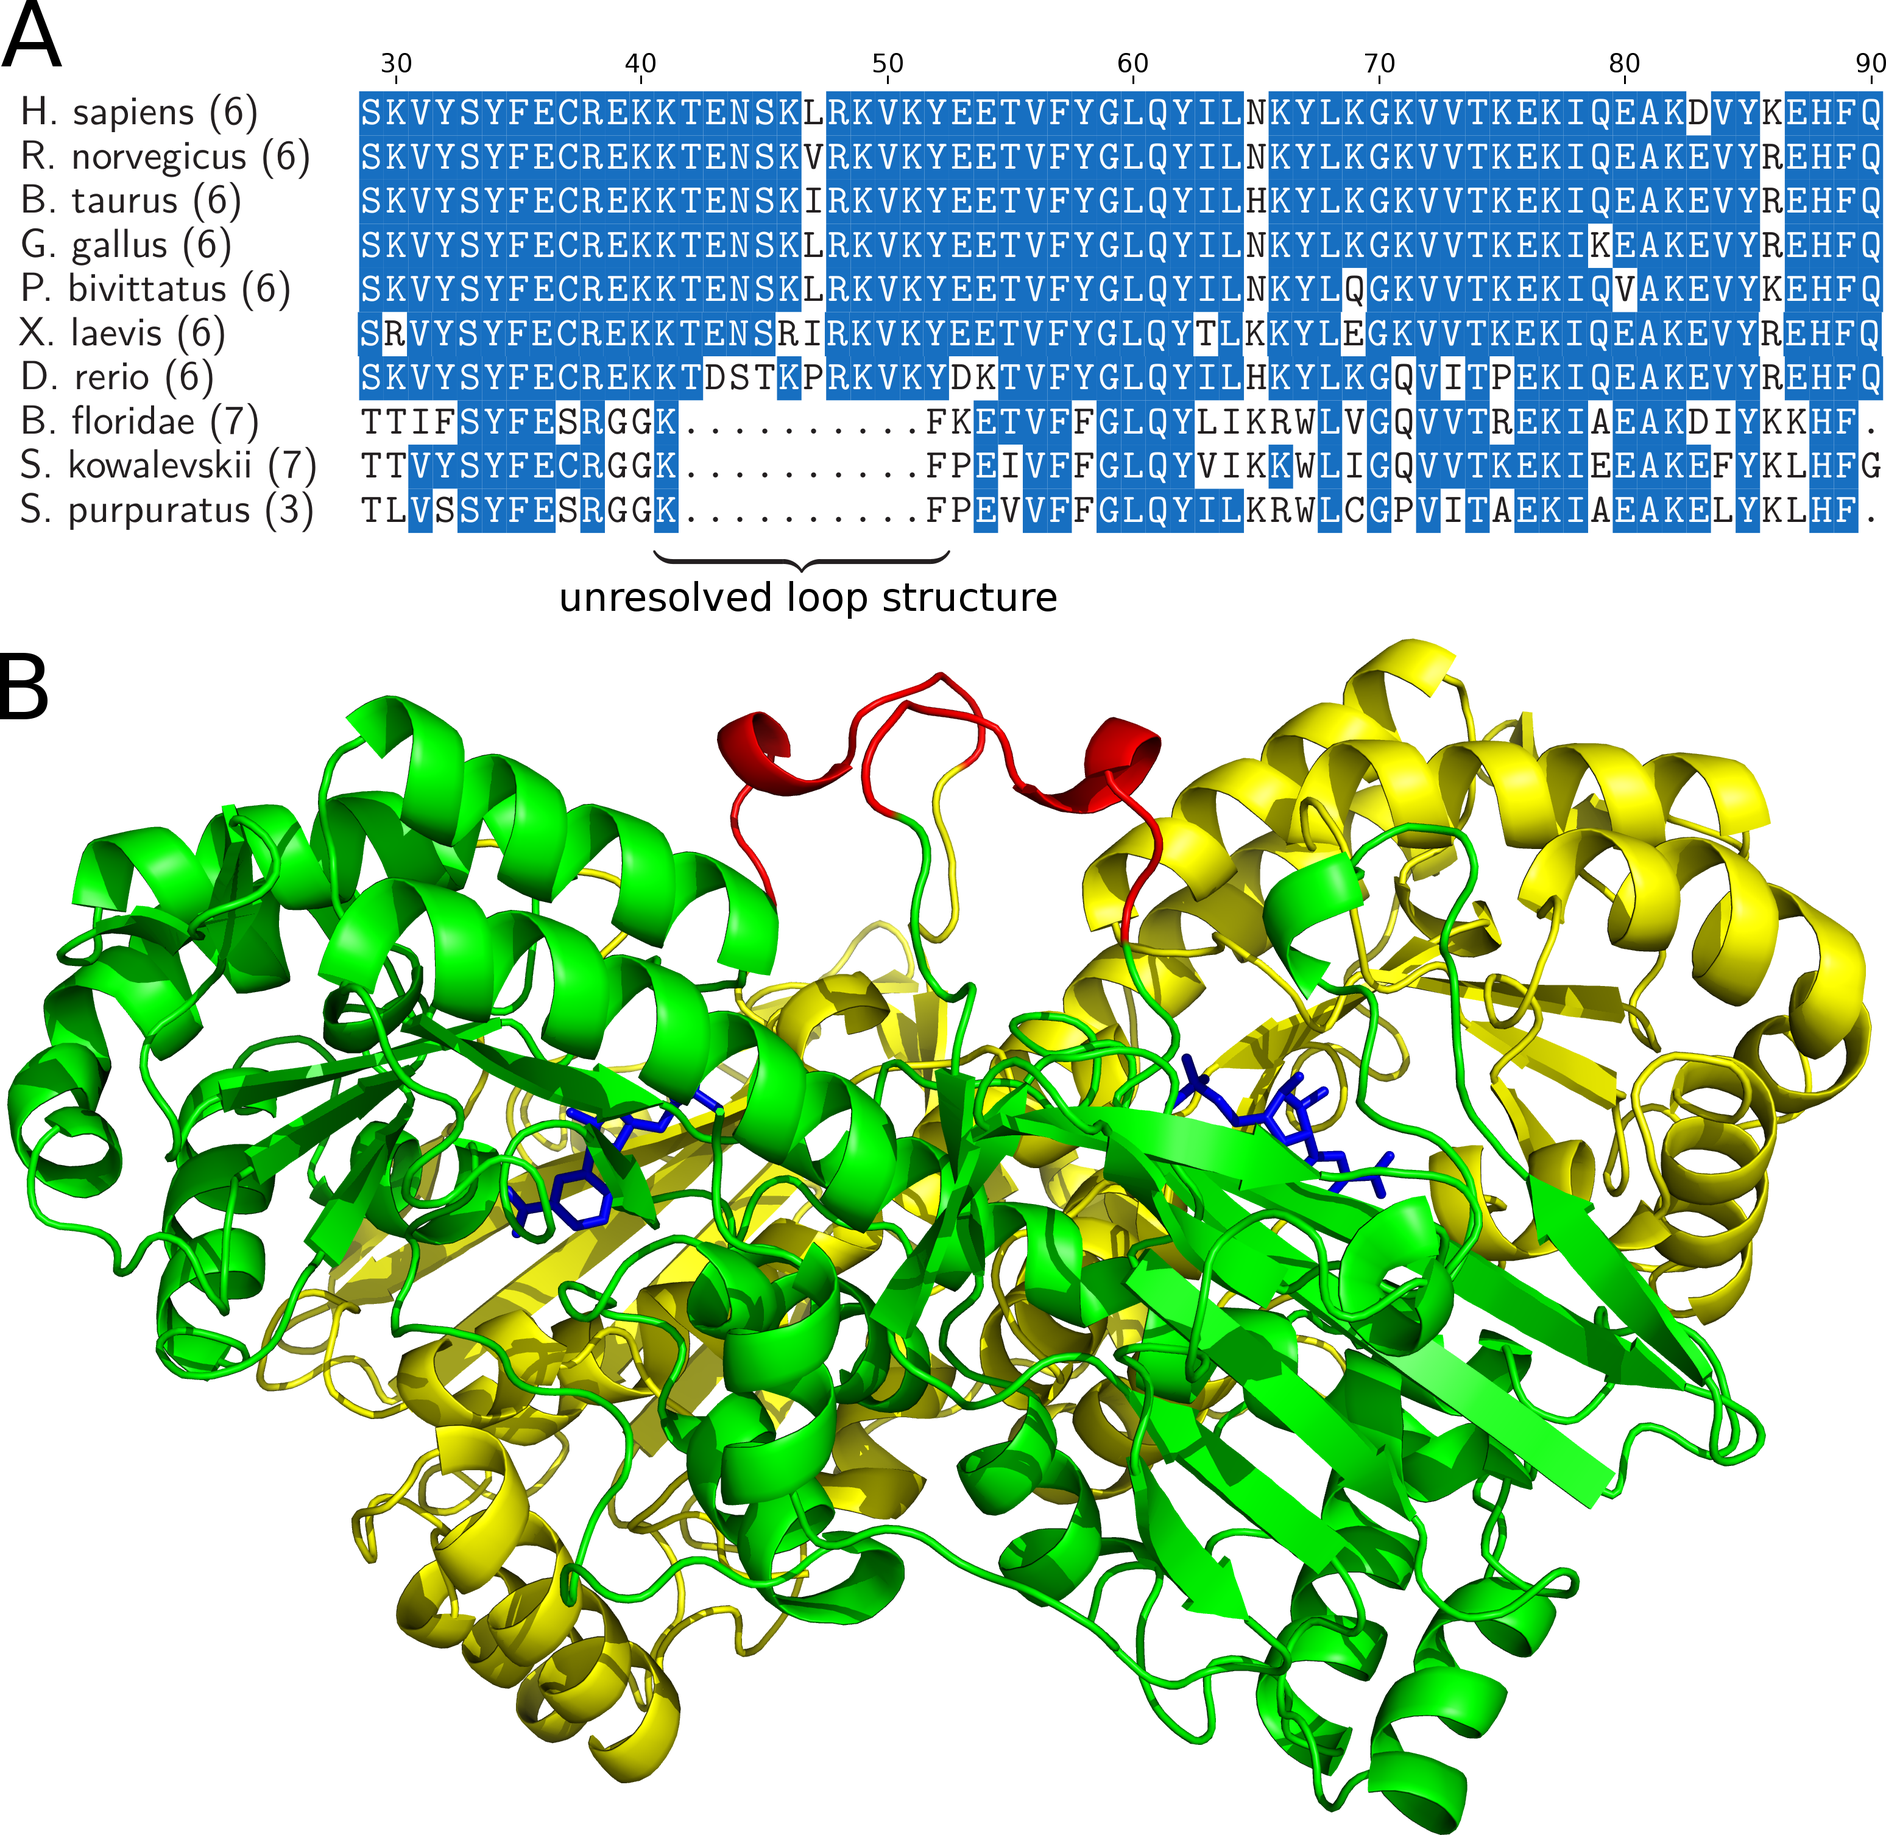
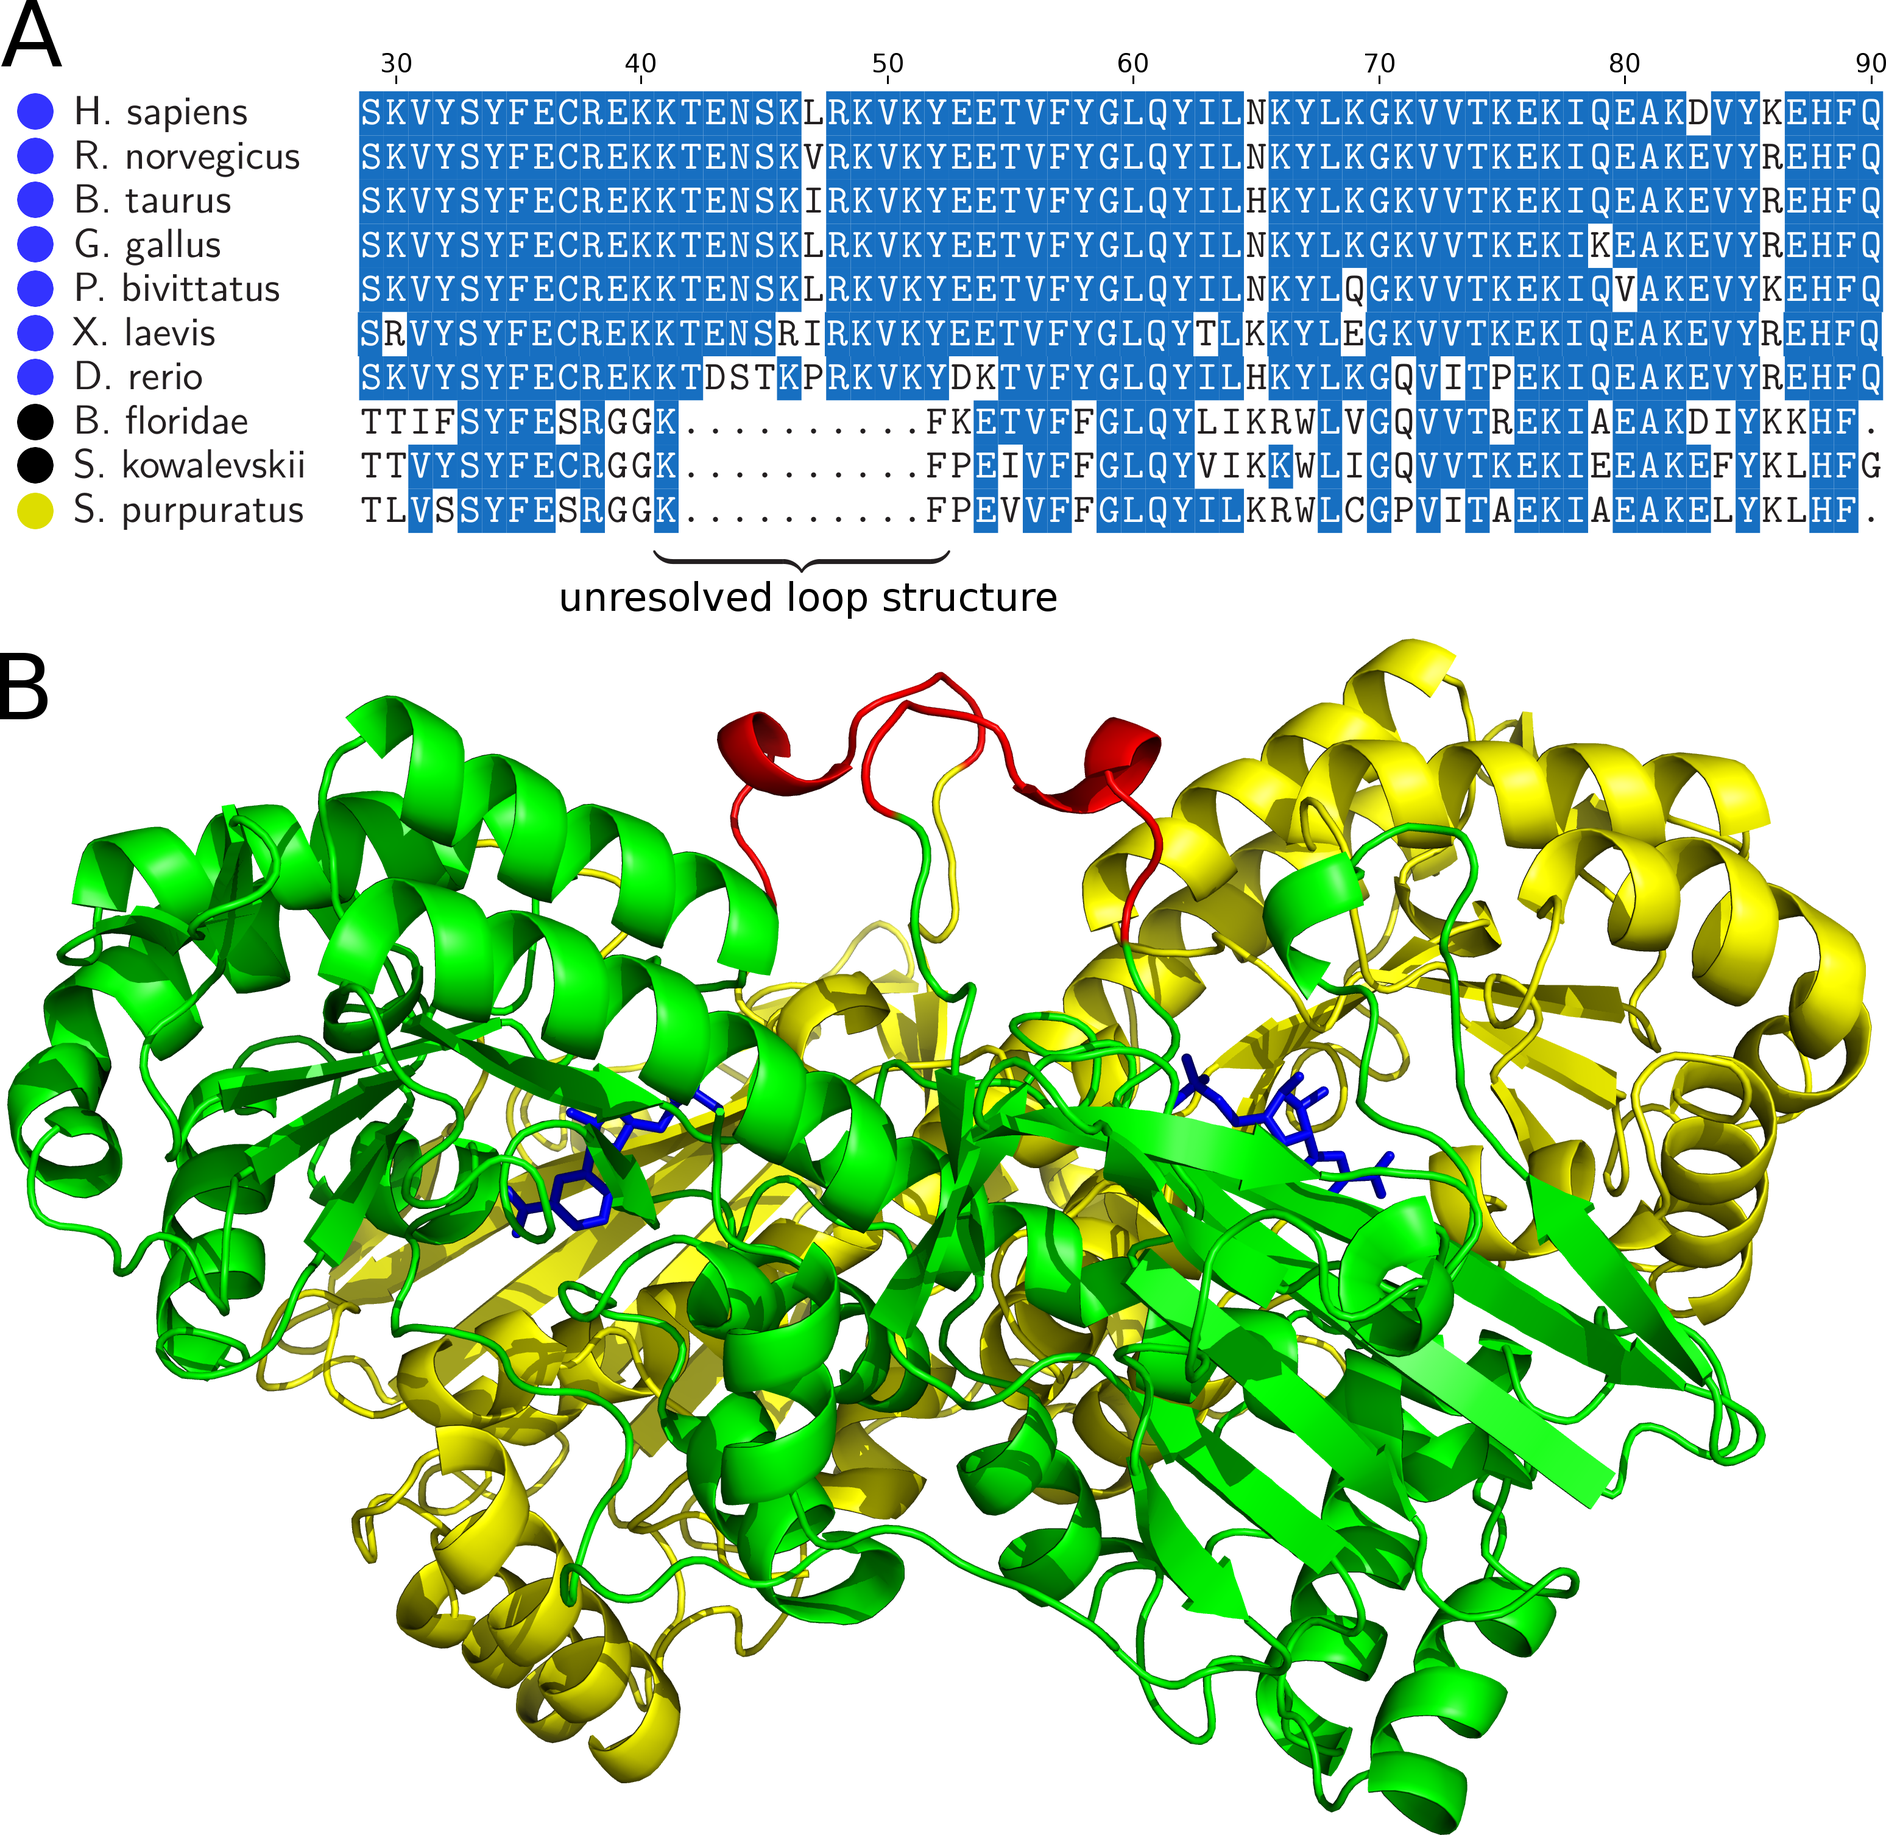
Indicated enzymes in figure by colour instead of number as before. Adjusted text accordingly.

Changed region(s): [[0.0, 0.0312, 0.186, 0.312]]

diff --git a/latex/results.tex b/latex/results.tex
@@ -19,17 +19,17 @@ Taken together, we found that the presence of NamPRT and NNMT coincides with an 
 
 So why does the diversity of NAD-dependent signalling increase? And why does NADA disappear in Deuterostomia although it is the predominant pathway in bacteria, plants and fungi? Given the complexity of the NAD metabolic network, this question is difficult to be comprehensively addressed experimentally. Thus, to answer these questions we built a dynamic model of NAD metabolism using existing kinetic data from the literature (for details see materials and methods and supplementary material).
 
-To be able to compare metabolic features of evolutionary quite different systems in our simulations, and as we have limited information about expression levels of enzymes or changes of kinetic constants during evolution, we initially used the kinetic constants found for yeast or human enzymes for all systems analysed and used equal amounts of enzymes for all reactions. Wherever possible we did not only include substrate affinities but also known product inhibition or inhibition by downstream metabolites. As we assume that cell growth is, besides NAD-consuming reactions, a major driving force for NAD biosynthesis, we analysed different growth rates (cell division rates) by simulating different dilution rates for all metabolites. 
+To be able to compare metabolic features of evolutionary quite different systems in our simulations, and as we have limited information about expression levels of enzymes or changes of kinetic constants during evolution, we initially used the kinetic constants found for yeast or human enzymes for all systems analysed and used equal amounts of enzymes for all reactions. Wherever possible we did not only include substrate affinities but also known product inhibition or inhibition by downstream metabolites. As we assume that cell growth is, besides NAD-consuming reactions, a major driving force for NAD biosynthesis, we analysed different growth rates (cell division rates) by simulating different dilution rates for all metabolites.
 
 First we addressed the question of the predominant coexitence of NamPRT and NNMT in vertebrates that coincides with an increase in the number of NAD-consuming enzyme families. We thus used our dynamic model of the NAD biosynthesis and consmption pathway to simulate the effect of the  presence or absence of NNMT.  We see that the presence of NNMT enables higher NAD consumption rates  (Figure3A) while, as exptected, reducing the steady state concentration of NAD (Figure 3B). The decline in NAD-concnetrtion can be compensated by a higher expression of NamPRT (not shown) further increasing NAD consumption flux.
 
 These findings can be explained when looking in more detail into the kinetic parameters of NamPRT and NAD-consuming enzymes such as Sirt1p.  The increase of NAD consumption flux is caused by the fact that most NAD-consuming enzymes are inhibited by their product Nam, explaing why the presence of NNMT enables higher NAD consumption fluxes. At the same time, the high substrate affinity of NamPRT maintains a sufficiently high NAD-concetration.
 
-As kinetic parameters of NamPRT are only available for the human enzyme \cite{Burgos2008} , we went on to theoretically analysed the potential effect of the NamPRT affinity (Km) on NAD steady state concentration and NAD consumption flux, leaving all other kinetic parameters constant. In the absence of NNMT (Figure 3C-D) a change in Km has very little effect on steady state NAD concentration and NAD consumption flux.  In the presence of NNMT, however, NAD consumption flux and NAD concentration increases with decreasing Km values (Figure 5E-F).  
+As kinetic parameters of NamPRT are only available for the human enzyme \cite{Burgos2008} , we went on to theoretically analysed the potential effect of the NamPRT affinity (Km) on NAD steady state concentration and NAD consumption flux, leaving all other kinetic parameters constant. In the absence of NNMT (Figure 3C-D) a change in Km has very little effect on steady state NAD concentration and NAD consumption flux.  In the presence of NNMT, however, NAD consumption flux and NAD concentration increases with decreasing Km values (Figure 5E-F).
 
-It is intersting to note that, without NNMT, NAD concentration and consumption flux are both considerably affected by cell division rates, at least if the enzyme expression is kept constant. Even though, this is of course an artificial scenario, as one would assume organisms to regulate enzyme expression to achieve similar levels of metabolite concentrations instead. However, there seems to be an apparent trade off between maintainable NAD concentration and consumption flux. 
+It is intersting to note that, without NNMT, NAD concentration and consumption flux are both considerably affected by cell division rates, at least if the enzyme expression is kept constant. Even though, this is of course an artificial scenario, as one would assume organisms to regulate enzyme expression to achieve similar levels of metabolite concentrations instead. However, there seems to be an apparent trade off between maintainable NAD concentration and consumption flux.
 
-When we compare NAD consumption and NAD concentration with and without NNMT with two different substrate affinities of NamPRT, we see that at a low affinity (Km of 1 mikroM, which is in the range of the Km of NADA for Nam, NAD consumption flux is only higher with NNMT at low cell division rates. This effect becomes stronger if we further lower the affinity (not shown) (Figure 3G-H). 
+When we compare NAD consumption and NAD concentration with and without NNMT with two different substrate affinities of NamPRT, we see that at a low affinity (Km of 1 mikroM, which is in the range of the Km of NADA for Nam, NAD consumption flux is only higher with NNMT at low cell division rates. This effect becomes stronger if we further lower the affinity (not shown) (Figure 3G-H).
 
 
 The pathway dynamics are of course not solely dependent on one enzyme. Thus, what is the impact of the substrate affinity of NNMT that is competing with NamPRT for the same substrate? In Figure 4A we see that the substrate affinity values found in the human enzymes (indicated by black asterisks) are actually optimal with respect to both achievable steady state NAD concentration and consumption fluxes. Thus, a further increase of the affinity of NamPRT for Nam would not provide any advantage.
@@ -37,10 +37,10 @@ The pathway dynamics are of course not solely dependent on one enzyme. Thus, wha
 
 \subsection{Sequence variance acquired in metazoans enhances substrate affinity}
 
-As our simulations suggest that NNMT might have excerted an evolitionary pressure on the development of NamPRT. We performed multiple sequence analysis to see if we can find sequence variations in the protein sequence of NamPRT that indicate evolutionary changes of NamPRT upon the appearance of NNMT. The multiple sequence alignment of selected sequences is shown in Figure 5A and Supplementary Figure ?\todo[author=Mathias B.]{Full MSA to be prepared as suppl figure.} We recognized that Deuterostomia that have only NamPRT and NNMT (indicated by the number 6 in parenthesis \todo[author=Mathias B.]{Maybe rather indicate this by colour and the kingdom through abbrev?}) have an insert of ten amino acids corresponding to positions 43 to 52 of the human enzyme, that overlaps with a predicted weak nuclear localisation signal, that is lost when removing this sequence stretch. 
-Furthermore, the inserted sequence corresponce to an structurallly unresolved loop structure in all avaibable crystal structure of human NamPR (e.g. \cite{Wang2006} structure visualisation Figure 5B). The loop is connected to one of the beta-sheets involved in substrate binding. 
+As our simulations suggest that NNMT might have excerted an evolitionary pressure on the development of NamPRT. We performed multiple sequence analysis to see if we can find sequence variations in the protein sequence of NamPRT that indicate evolutionary changes of NamPRT upon the appearance of NNMT. The multiple sequence alignment of selected sequences is shown in Figure 5A and Supplementary Figure ?\todo[author=Mathias B.]{Full MSA to be prepared as suppl figure.} We recognized that Deuterostomia that have only NamPRT and NNMT (indicated by the blue circle) have an insert of ten amino acids corresponding to positions 43 to 52 of the human enzyme, that overlaps with a predicted weak nuclear localisation signal, that is lost when removing this sequence stretch.
+Furthermore, the inserted sequence corresponce to an structurallly unresolved loop structure in all avaibable crystal structure of human NamPR (e.g. \cite{Wang2006} structure visualisation Figure 5B). The loop is connected to one of the beta-sheets involved in substrate binding.
 
-From these observations we derived two hypotheses regarding the potential function of the loop for NamPRT function. Firstly, we analysed whether the deletion of the amino acids 43 to 52 has an effect on the localisation of the human enzyme. But both wildtype and mutant protein show a mixed localisation in the cytosol and nucleus (Figure 5C). We therefore conclude that the partial nuclear localisation of NamPRT is not affected by the sequence deletion. 
+From these observations we derived two hypotheses regarding the potential function of the loop for NamPRT function. Firstly, we analysed whether the deletion of the amino acids 43 to 52 has an effect on the localisation of the human enzyme. But both wildtype and mutant protein show a mixed localisation in the cytosol and nucleus (Figure 5C). We therefore conclude that the partial nuclear localisation of NamPRT is not affected by the sequence deletion.
 The second hypothesis was that the sequence insertion influences NamPRT affinity and activity, which is also what our mathematical simulations would predict. We thus recombinantly expressed  both wildttype and mutant  NamPRT  in E. coli.  Upon purifictaion we meassured the activity using NMR detecttion of NMN produced in the presence and absence of ATP. It appears that the enzymatic activity of the mutant enzyme is much lower than that of the wildtype enzyme both with and without ATP. We furthermore see that the activity of the mutant enzyme can be increase with higher concentration of Nam and PRPP whereas that is not the case for the wildtype enzyme. Pointing to a decrease substrate affinity of the mutant enzyme. Supporting the second hypothesis and thus supporting the predictions derived from our mathematical modelling approach.
 
 \subsection{Loss of NADA in vertebrates}

diff --git a/latex/figurelegends.tex b/latex/figurelegends.tex
@@ -39,8 +39,6 @@ The substrate affinity of NNMT and NamPRT have opposite effects on NAD consumpti
 
 \subsection{Figure 7}
 
-Deuterostomia that encode NNMT show a sequence insertion in the N-terminal region of NamPRT. A) Multiple sequence alignment of NamPRT of selected deuterostomes show a sequence insertion in organisms that encode NamPRT and NNMT. (Species names are given and the number in parenthesis indicates the enzyme combination encoded in these species; 3 – NADA and NamPRT, 6 – NamPRT and NNMT, 7 – NADA, NamPRT and NNMT. \todo[author=Mathias]{Note to myself: replace the numbers by something better and rewrite this part.}) The nuclear localisation signal (NLS\todo[author=Mathias]{Note to myself: Write “predicted NLS” in figure}) indicated, was predicted using using cNLS-mapper (\url{http://nls-mapper.iab.keio.ac.jp/cgi-bin/NLS_Mapper_form.cgi} \cite{Kosugi2009}).
+Deuterostomia that encode NNMT show a sequence insertion in the N-terminal region of NamPRT. A) Multiple sequence alignment of NamPRT of selected deuterostomes show a sequence insertion in organisms that encode NamPRT and NNMT. Coloured circles indicate the enzymes present in the species; blue: NamPRT and NNMT; black: NamPRT, NADA, and NNMT; yellow: NamPRT and NADA.
 
 B) The inserted region is not resolved in crystal structures of human NamPRT and thus appears to be a flexible loop structure at the surface of the NamPRT dimer, coloured in red. The visualisation is based on a structure prediction of SWISS-MODEL \cite{Arnold2006,Biasini2014} of the sequence of the human NamPRT (P43490) using the model 2H3D as template \cite{Wang2006}.
-
-C) The localisation of wildtype NamPRT varies between pure cytosolic and mixed cytosolic-nuclear localisation. This is not changed in the mutant missing the insert that corresponds to the unresolved loop structure.

diff --git a/figures/Unresolved_loop/unresolved_loop.md b/figures/Unresolved_loop/unresolved_loop.md
@@ -1,12 +1,10 @@
 # Unresolved loop
 
-Concerning `unresolved_loop.png`. Source files are in the folder `unresolved_loop`.
-
 ## Creation
 
 The sequence alignment was made with Latex and Texshade. The original alignment is in `Syn_alignment.txt` and the Latexfile is `msa_nampt.tex`.
 
-The 3D structure is the visualisation of a swissmodel based on 2H3D.pdb (both files in the source folder). The file was rendered with PyMOL. The PyMOL file is `sm.pse`.
+The 3D structure is the visualisation of a swissmodel based on 2H3D.pdb. The file was rendered with PyMOL. The PyMOL file is `sm.pse`.
 
 ## Interpretation
 
